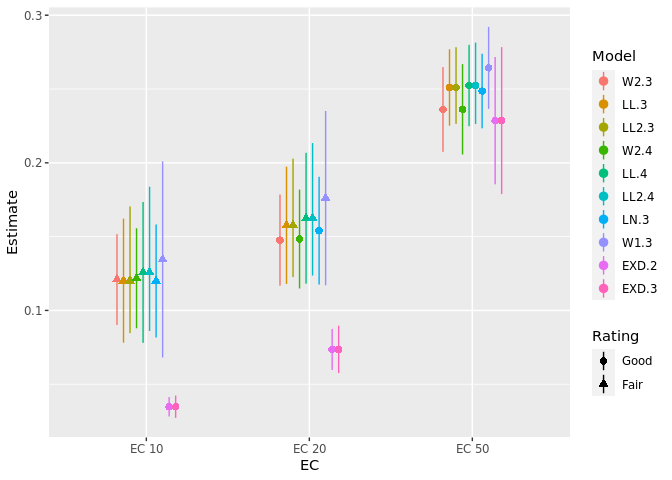
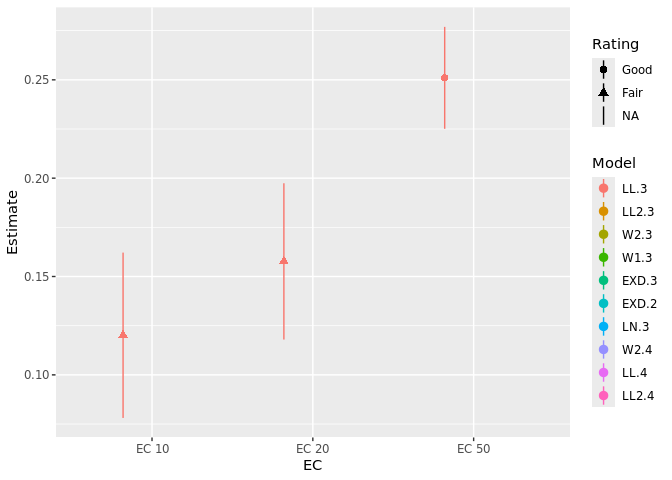
readme build

diff --git a/README.md b/README.md
@@ -6,7 +6,9 @@
 <!-- badges: start -->
 <!-- badges: end -->
 
-The goal of drcHelper is to …
+The goal of drcHelper is to assit the routine dose-response analysis
+with a collection of helper functions or standalong functions that are
+generic and might be useful outside our own organization.
 
 ## Installation
 
@@ -86,6 +88,15 @@ plot(mod,type="all")
 
 ``` r
 res <- mselect.plus(mod,fctList = fctList )
+#> [1] "Model not Converged, Please consult a statistician."
+#> [1] "Model not Converged, Please consult a statistician."
+#> [1] "Model not Converged, Please consult a statistician."
+#> [1] "Model not Converged, Please consult a statistician."
+#> [1] "Model not Converged, Please consult a statistician."
+#> [1] "Model not Converged, Please consult a statistician."
+#> [1] "Model not Converged, Please consult a statistician."
+#> [1] "Model not Converged, Please consult a statistician."
+#> [1] "Model not Converged, Please consult a statistician."
 modList <- res$modList
 edResTab <- mselect.ED(modList = modList,respLev = c(10,20,50),trend=datTn$Trend_Yield[1])
 plot.edList(edResTab)
@@ -101,38 +112,38 @@ resComp <- drcCompare(modRes = res,trend="Decrease")
 knitr::kable(edResTab,caption = "14 day TSL Yield",digits = 3)
 ```
 
-| .id   | Estimate | Std. Error | Lower | Upper |    NW | Rating | EC    |
-|:------|---------:|-----------:|------:|------:|------:|:-------|:------|
-| W2.3  |    0.121 |      0.015 | 0.090 | 0.152 | 0.509 | Fair   | EC 10 |
-| W2.3  |    0.148 |      0.015 | 0.117 | 0.179 | 0.419 | Good   | EC 20 |
-| W2.3  |    0.236 |      0.014 | 0.207 | 0.265 | 0.243 | Good   | EC 50 |
-| LL.3  |    0.120 |      0.020 | 0.078 | 0.162 | 0.700 | Fair   | EC 10 |
-| LL.3  |    0.158 |      0.019 | 0.118 | 0.197 | 0.504 | Fair   | EC 20 |
-| LL.3  |    0.251 |      0.013 | 0.225 | 0.277 | 0.206 | Good   | EC 50 |
-| LL2.3 |    0.120 |         NA | 0.085 | 0.170 | 0.714 | Fair   | EC 10 |
-| LL2.3 |    0.158 |         NA | 0.123 | 0.203 | 0.509 | Fair   | EC 20 |
-| LL2.3 |    0.251 |         NA | 0.226 | 0.278 | 0.207 | Good   | EC 50 |
-| W2.4  |    0.122 |      0.016 | 0.088 | 0.156 | 0.556 | Fair   | EC 10 |
-| W2.4  |    0.148 |      0.016 | 0.115 | 0.182 | 0.451 | Good   | EC 20 |
-| W2.4  |    0.236 |      0.015 | 0.206 | 0.267 | 0.259 | Good   | EC 50 |
-| LL.4  |    0.126 |      0.023 | 0.078 | 0.173 | 0.759 | Fair   | EC 10 |
-| LL.4  |    0.162 |      0.021 | 0.118 | 0.207 | 0.546 | Fair   | EC 20 |
-| LL.4  |    0.252 |      0.013 | 0.225 | 0.280 | 0.218 | Good   | EC 50 |
-| LL2.4 |    0.126 |         NA | 0.086 | 0.184 | 0.777 | Fair   | EC 10 |
-| LL2.4 |    0.162 |         NA | 0.124 | 0.213 | 0.552 | Fair   | EC 20 |
-| LL2.4 |    0.252 |         NA | 0.226 | 0.281 | 0.219 | Good   | EC 50 |
-| LN.3  |    0.120 |      0.019 | 0.082 | 0.158 | 0.639 | Fair   | EC 10 |
-| LN.3  |    0.154 |      0.018 | 0.118 | 0.191 | 0.474 | Good   | EC 20 |
-| LN.3  |    0.249 |      0.012 | 0.223 | 0.274 | 0.203 | Good   | EC 50 |
-| W1.3  |    0.135 |      0.032 | 0.068 | 0.201 | 0.987 | Fair   | EC 10 |
-| W1.3  |    0.176 |      0.029 | 0.117 | 0.235 | 0.671 | Fair   | EC 20 |
-| W1.3  |    0.264 |      0.013 | 0.237 | 0.292 | 0.210 | Good   | EC 50 |
-| EXD.2 |    0.035 |      0.003 | 0.028 | 0.041 | 0.378 | Good   | EC 10 |
-| EXD.2 |    0.074 |      0.007 | 0.060 | 0.087 | 0.378 | Good   | EC 20 |
-| EXD.2 |    0.229 |      0.021 | 0.185 | 0.272 | 0.378 | Good   | EC 50 |
-| EXD.3 |    0.035 |      0.004 | 0.027 | 0.042 | 0.435 | Good   | EC 10 |
-| EXD.3 |    0.074 |      0.008 | 0.058 | 0.090 | 0.435 | Good   | EC 20 |
-| EXD.3 |    0.229 |      0.024 | 0.179 | 0.278 | 0.435 | Good   | EC 50 |
+| .id   | Estimate | Std. Error | Lower | Upper |    NW | Rating      | EC    |
+|:------|---------:|-----------:|------:|------:|------:|:------------|:------|
+| LL.3  |    0.120 |      0.020 | 0.078 | 0.162 | 0.700 | Fair        | EC 10 |
+| LL.3  |    0.158 |      0.019 | 0.118 | 0.197 | 0.504 | Fair        | EC 20 |
+| LL.3  |    0.251 |      0.013 | 0.225 | 0.277 | 0.206 | Good        | EC 50 |
+| LL2.3 |       NA |         NA |    NA |    NA |    NA | not defined | EC 10 |
+| LL2.3 |       NA |         NA |    NA |    NA |    NA | not defined | EC 20 |
+| LL2.3 |       NA |         NA |    NA |    NA |    NA | not defined | EC 50 |
+| W2.3  |       NA |         NA |    NA |    NA |    NA | not defined | EC 10 |
+| W2.3  |       NA |         NA |    NA |    NA |    NA | not defined | EC 20 |
+| W2.3  |       NA |         NA |    NA |    NA |    NA | not defined | EC 50 |
+| W1.3  |       NA |         NA |    NA |    NA |    NA | not defined | EC 10 |
+| W1.3  |       NA |         NA |    NA |    NA |    NA | not defined | EC 20 |
+| W1.3  |       NA |         NA |    NA |    NA |    NA | not defined | EC 50 |
+| EXD.3 |       NA |         NA |    NA |    NA |    NA | not defined | EC 10 |
+| EXD.3 |       NA |         NA |    NA |    NA |    NA | not defined | EC 20 |
+| EXD.3 |       NA |         NA |    NA |    NA |    NA | not defined | EC 50 |
+| EXD.2 |       NA |         NA |    NA |    NA |    NA | not defined | EC 10 |
+| EXD.2 |       NA |         NA |    NA |    NA |    NA | not defined | EC 20 |
+| EXD.2 |       NA |         NA |    NA |    NA |    NA | not defined | EC 50 |
+| LN.3  |       NA |         NA |    NA |    NA |    NA | not defined | EC 10 |
+| LN.3  |       NA |         NA |    NA |    NA |    NA | not defined | EC 20 |
+| LN.3  |       NA |         NA |    NA |    NA |    NA | not defined | EC 50 |
+| W2.4  |       NA |         NA |    NA |    NA |    NA | not defined | EC 10 |
+| W2.4  |       NA |         NA |    NA |    NA |    NA | not defined | EC 20 |
+| W2.4  |       NA |         NA |    NA |    NA |    NA | not defined | EC 50 |
+| LL.4  |       NA |         NA |    NA |    NA |    NA | not defined | EC 10 |
+| LL.4  |       NA |         NA |    NA |    NA |    NA | not defined | EC 20 |
+| LL.4  |       NA |         NA |    NA |    NA |    NA | not defined | EC 50 |
+| LL2.4 |       NA |         NA |    NA |    NA |    NA | not defined | EC 10 |
+| LL2.4 |       NA |         NA |    NA |    NA |    NA | not defined | EC 20 |
+| LL2.4 |       NA |         NA |    NA |    NA |    NA | not defined | EC 50 |
 
 14 day TSL Yield
 
@@ -142,16 +153,16 @@ knitr::kable(resComp,caption = "14 day TSL Yield, Model Comparison",digits = 3)
 
 |       |  logLik |      IC | Lack of fit | Res var | Certainty_Protection | Steepness | No Effect p-val |
 |:------|--------:|--------:|------------:|--------:|:---------------------|:----------|----------------:|
-| W2.3  | -66.456 | 140.912 |       0.188 |   7.556 | Medium               | Medium    |               0 |
 | LL.3  | -67.245 | 142.489 |       0.117 |   7.994 | Medium               | Medium    |               0 |
-| LL2.3 | -67.245 | 142.489 |       0.117 |   7.994 | High                 | Medium    |               0 |
-| W2.4  | -66.433 | 142.866 |       0.113 |   7.858 | Medium               | Medium    |               0 |
-| LL.4  | -66.584 | 143.169 |       0.102 |   7.943 | Medium               | Medium    |               0 |
-| LL2.4 | -66.584 | 143.169 |       0.102 |   7.943 | Medium               | Medium    |               0 |
-| LN.3  | -67.745 | 143.490 |       0.086 |   8.284 | Medium               | Medium    |               0 |
-| W1.3  | -68.086 | 144.173 |       0.069 |   8.489 | Medium               | Medium    |               0 |
-| EXD.2 | -80.603 | 167.207 |       0.000 |  19.958 | High                 | Shallow   |               0 |
-| EXD.3 | -80.603 | 169.207 |       0.000 |  20.756 | High                 | Shallow   |               0 |
+| LL2.3 |      NA |      NA |          NA |      NA | NA                   | NA        |              NA |
+| W2.3  |      NA |      NA |          NA |      NA | NA                   | NA        |              NA |
+| W1.3  |      NA |      NA |          NA |      NA | NA                   | NA        |              NA |
+| EXD.3 |      NA |      NA |          NA |      NA | NA                   | NA        |              NA |
+| EXD.2 |      NA |      NA |          NA |      NA | NA                   | NA        |              NA |
+| LN.3  |      NA |      NA |          NA |      NA | NA                   | NA        |              NA |
+| W2.4  |      NA |      NA |          NA |      NA | NA                   | NA        |              NA |
+| LL.4  |      NA |      NA |          NA |      NA | NA                   | NA        |              NA |
+| LL2.4 |      NA |      NA |          NA |      NA | NA                   | NA        |              NA |
 
 14 day TSL Yield, Model Comparison
 
@@ -194,10 +205,10 @@ knitr::kable(resED,caption = "Total Shoot Length Growth Yield at 14 day",digits 
 
 |          | EC 10 | EC 20 | EC 50 |
 |:---------|------:|------:|------:|
-| Estimate | 0.121 | 0.148 | 0.236 |
-| Lower    | 0.090 | 0.117 | 0.207 |
-| Upper    | 0.152 | 0.179 | 0.265 |
-| NW       | 0.509 | 0.419 | 0.243 |
+| Estimate | 0.120 | 0.158 | 0.251 |
+| Lower    | 0.078 | 0.118 | 0.225 |
+| Upper    | 0.162 | 0.197 | 0.277 |
+| NW       | 0.700 | 0.504 | 0.206 |
 
 Total Shoot Length Growth Yield at 14 day
 
@@ -210,10 +221,10 @@ pander::pander(as.data.frame(edres))
 
 |           | Estimate | Std. Error |  Lower  | Upper  |
 |:---------:|:--------:|:----------:|:-------:|:------:|
-| **EC 5**  |  0.1044  |  0.01464   | 0.0743  | 0.1346 |
-| **EC 10** |  0.1209  |  0.01494   | 0.09017 | 0.1517 |
-| **EC 20** |  0.1477  |  0.01501   | 0.1167  | 0.1786 |
-| **EC 50** |  0.2361  |  0.01395   | 0.2074  | 0.2649 |
+| **EC 5**  | 0.09351  |  0.02005   | 0.05222 | 0.1348 |
+| **EC 10** |  0.1201  |  0.02041   | 0.07812 | 0.1622 |
+| **EC 20** |  0.1577  |  0.01929   |  0.118  | 0.1974 |
+| **EC 50** |  0.251   |  0.01258   | 0.2251  | 0.2769 |
 
 ``` r
 modsum <- summary(mod)
@@ -222,11 +233,17 @@ pander::pander(coef(modsum))
 
 |                   | Estimate | Std. Error | t-value |  p-value  |
 |:-----------------:|:--------:|:----------:|:-------:|:---------:|
-| **b:(Intercept)** |  -1.794  |   0.2203   | -8.144  | 1.696e-08 |
-| **d:(Intercept)** |  53.85   |   0.9535   |  56.48  | 3.42e-28  |
-| **e:(Intercept)** |  0.1925  |  0.01447   |  13.3   | 7.664e-13 |
+| **b:(Intercept)** |  2.982   |   0.5414   |  5.508  | 1.008e-05 |
+| **d:(Intercept)** |  54.27   |   1.017    |  53.37  | 1.391e-27 |
+| **e:(Intercept)** |  0.251   |  0.01258   |  19.95  | 3.579e-17 |
 
 ## ToDo
 
 - [ ] Develop all NOEC functions
 - [ ] Prepare the templates.
+- [ ] Update the documentation
+
+## Contribution Notes
+
+- Please create a pull request to contribute to the development of
+  packages.
